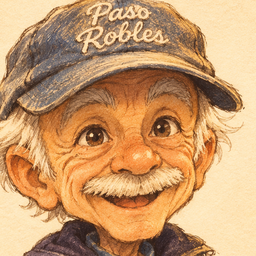
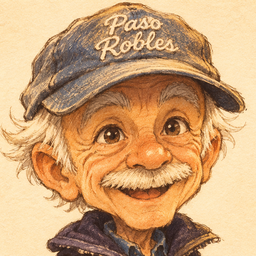
Tom and Boppy menu portraits use Tom's own crops of the new heroes (tomboppy1)
Claude-Session: https://claude.ai/code/session_01RXeukGLWnomSE9qfYsScrZ

diff --git a/index.html b/index.html
@@ -1348,7 +1348,7 @@ document.addEventListener('click',function(e){var n=e.target.closest&&e.target.c
 <script src="data/maps-ch12.js"></script>
 <script src="engine/la.js"></script>
 <script src="data/talk-faces.js?v=talk1"></script>
-<script src="engine/menu.js?v=duo1"></script>
+<script src="engine/menu.js?v=tomboppy1"></script>
 <script src="engine/followers.js?v=slots10"></script>
 <script src="engine/shop.js?v=justin2"></script>
 <script src="engine/audio.js?v=duo1"></script>
@@ -1403,18 +1403,18 @@ document.addEventListener('click',function(e){var n=e.target.closest&&e.target.c
 <script src="data/battle-icons.js?v=warmth1"></script>
 <script src="data/battle-emoji.js?v=warmth1"></script>
 <script src="engine/battle-pictures.js?v=tombopair2"></script>
-<script src="engine/overworld.js?v=talk1"></script>
+<script src="engine/overworld.js?v=tomboppy1"></script>
 <script src="data/font.js"></script>
 <script src="data/overworld-sprites.js"></script>
 <script src="engine/tiles.js?v=tom4"></script>
 <script src="data/villagers.js"></script>
 <script src="data/recruit-rig.js"></script>
-<script src="engine/painted.js?v=npcemo7"></script>
+<script src="engine/painted.js?v=tomboppy1"></script>
 <script src="data/tombo-frames.js"></script>
 <script src="engine/tombo-frames.js"></script>
-<script src="data/tom-hires.js?v=walkv2"></script>
+<script src="data/tom-hires.js?v=tomboppy1"></script>
 <script src="data/tom-hires-use.js?v=ab1"></script>
-<script src="data/story-poses.js?v=walkv2"></script>
+<script src="data/story-poses.js?v=tomboppy1"></script>
 <script src="data/npc-poses.js?v=npcemo7"></script>
 <script src="data/story-poses-use.js?v=emo7"></script>
 <script src="data/grace-hires.js?v=walkv2"></script>
@@ -1426,7 +1426,7 @@ document.addEventListener('click',function(e){var n=e.target.closest&&e.target.c
 <script src="data/deedee-hires-use.js"></script>
 <script src="data/amy-hires.js?v=walkv2"></script>
 <script src="data/amy-hires-use.js"></script>
-<script src="data/boppy-hires.js?v=walkv2"></script>
+<script src="data/boppy-hires.js?v=tomboppy1"></script>
 <script src="data/boppy-hires-use.js"></script>
 <script src="data/rose-hires.js?v=walkv2"></script>
 <script src="data/rose-hires-use.js?v=rose1"></script>
@@ -1438,7 +1438,7 @@ document.addEventListener('click',function(e){var n=e.target.closest&&e.target.c
 <script src="data/npc-sprites.js"></script>
 <script src="data/ellie-hires.js"></script>
 <script src="data/ellie-hires-use.js"></script>
-<script src="data/justin-hires.js?v=walkv2"></script>
+<script src="data/justin-hires.js?v=tomboppy1"></script>
 <script src="data/justin-hires-use.js?v=castsize1"></script>
 <script src="data/olivia-hires.js?v=walkv2"></script>
 <script src="data/olivia-hires-use.js?v=walksheet3"></script>
@@ -1630,9 +1630,9 @@ document.addEventListener('click',function(e){var n=e.target.closest&&e.target.c
 <script src="data/emotion-faces.js?v=npcemo7"></script>
 <script src="data/emotion-moods.js?v=emo14"></script>
 <script src="data/npc-emotion-moods.js?v=npcemo7"></script>
-<script src="engine/emotions.js?v=npcemo7"></script><!-- mood faces and poses in story dialogue (batch 0: chapter 1) -->
+<script src="engine/emotions.js?v=tomboppy1"></script><!-- mood faces and poses in story dialogue (batch 0: chapter 1) -->
 <script src="engine/tapwalk.js?v=space1"></script><!-- tap to walk -->
-<script src="engine/main.js?v=cast3"></script>
+<script src="engine/main.js?v=tomboppy1"></script>
 <script src="engine/music.js"></script>
 <script src="data/songs.js"></script>
 <script src="engine/music-clips.js?v=music2"></script>

diff --git a/engine/main.js b/engine/main.js
@@ -103,7 +103,7 @@ startSplash();
   const sp=document.getElementById('splash'); if(!sp) return;
   const d=document.createElement('div');
   // On an iPhone Duo the stamp also shows the page size and pose the game measured, so Tom can read them back (docs/DUO.md).
-  d.textContent='build cast3';
+  d.textContent='build tomboppy1';
   const build=d.textContent,stamp=()=>{ d.textContent=build+(typeof duoMode!=='undefined'&&duoMode.device?' '+window.innerWidth+'x'+window.innerHeight+(duoMode.open?' duo open':' duo folded'):''); };
   stamp(); window.addEventListener('resize',()=>setTimeout(stamp,60));
   d.style.cssText='position:absolute;left:8px;bottom:4px;font:10px monospace;color:#fff;opacity:.45;pointer-events:none;z-index:50';

diff --git a/docs/CHANGES.md b/docs/CHANGES.md
@@ -6,7 +6,7 @@
 ## 2026-11-11 (tomboppy1): new heroes, walking sheets and emotion sheets installed for Tom, Boppy and Justin (tag tomboppy1)
 - Tom 09:33 and 09:50: the new approved Library items for Tom, Boppy and Justin go in. Sources (newest approved): Tom hero v2, walking v3, emotions v7; Boppy hero v1 (new Paso Robles cap), walking v3, emotions v5; Justin hero v2, walking v3, emotions v4.
 - Walks rebaked with `walk_splice.py tom boppy justin` (painted as supplied; Justin's chin share .24 re-measured on v3, unchanged). Mood faces (`emotion_frames.py`, `bake_emotion_faces.py`), mood poses (`bake_story_poses.py`, baseline rebake reproduced the repo byte for byte first), dialogue faces (`bake_talk_faces.py`) rebaked from the new sheets.
-- Status screen and battle menu portraits (`bake_portraits.py`): FACE re-measured on Tom v2, Boppy v1 and Justin v2. Tom's and Boppy's saved hand crops in `data/portrait-crops.json` were for the old paintings, so they were removed and the measured crops apply. Boppy's menu portrait now wears the Paso Robles cap like his walk and dialogue face (the Big Fish cap is gone from the game).
+- Status screen and battle menu portraits (`bake_portraits.py`): rebaked from the new heroes. Tom and Boppy use Tom's own crops saved 09:54 to 09:55 in `data/portrait-crops.json`; Justin has no saved crop, so his FACE was re-measured on hero v2. Boppy's menu portrait now wears the Paso Robles cap like his walk and dialogue face (the Big Fish cap is gone from the game).
 - Tags: `bump_tags.py tomboppy1`, `EMO_V` and `TALK_V` by hand. Tests: smoke FAILS [], tag_check ok, unused_voice 0; looked at the new walks, mood faces, mood poses, portraits and a chapter 1 overworld frame in portrait.
 ## 2026-11-11 (duo3): iPhone Duo sideways battle, turn order tiles doubled
 - Tom: double the size of the turn order tiles. `index.html` `html.duo` block: tiles 44 px times `--ts` (55 px at 951 x 648, was 27.5), the current one 52 (65 px), label and gaps scaled. Scene size unchanged (763 x 429). Other devices unchanged.
